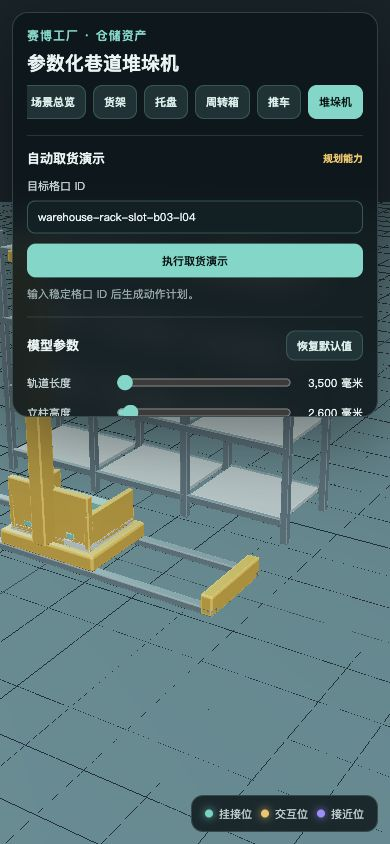
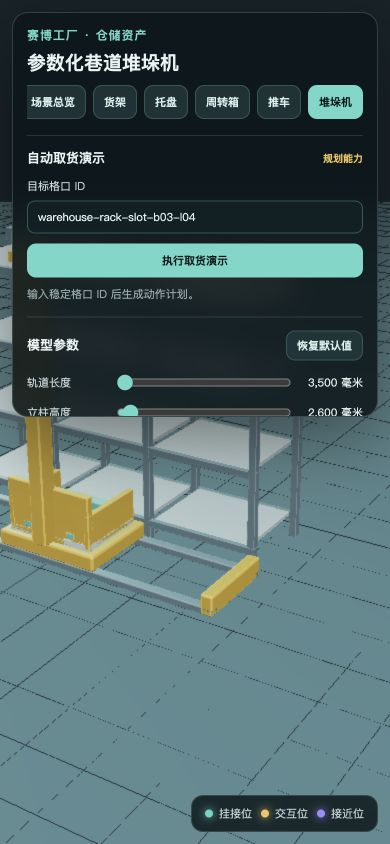
fix: combine stacker with rack assembly

diff --git a/domain-packages/cyber-factory/models/warehouse/model.ts b/domain-packages/cyber-factory/models/warehouse/model.ts
@@ -104,7 +104,7 @@ export const defaultWarehouseStackerCraneParameters: WarehouseStackerCraneParame
   mastHeight: defaultWarehouseRackParameters.height,
   carriageWidth: 900,
   carriageDepth: 700,
-  forkReach: 1_200,
+  forkReach: 700,
 };
 
 export const defaultWarehouseStackerCranePose: WarehouseStackerCranePose = {
@@ -138,6 +138,7 @@ const rubberAppearance: FeatureAppearance = { material: "rubber", color: "#20282
 const stackerFrameAppearance: FeatureAppearance = { material: "metal", color: "#E3A62F" };
 const stackerCarriageAppearance: FeatureAppearance = { material: "metal", color: "#D6E0E2" };
 const stackerForkAppearance: FeatureAppearance = { material: "metal", color: "#5BC6B5" };
+const warehouseStackerTravelBaseDepthScale = 1.18;
 
 function clamp(value: number, minimum: number, maximum: number) {
   return Math.min(maximum, Math.max(minimum, value));
@@ -478,8 +479,17 @@ export function normalizeWarehouseStackerCraneParameters(
     mastHeight: clamp(input.mastHeight ?? defaultWarehouseStackerCraneParameters.mastHeight, 2_400, 8_000),
     carriageWidth: clamp(input.carriageWidth ?? defaultWarehouseStackerCraneParameters.carriageWidth, 700, 1_600),
     carriageDepth: clamp(input.carriageDepth ?? defaultWarehouseStackerCraneParameters.carriageDepth, 600, 1_400),
-    forkReach: clamp(input.forkReach ?? defaultWarehouseStackerCraneParameters.forkReach, 900, 2_400),
+    forkReach: clamp(input.forkReach ?? defaultWarehouseStackerCraneParameters.forkReach, 400, 2_400),
   };
+}
+
+export function warehouseStackerRackAssemblyZ(
+  rackInput: Partial<WarehouseRackParameters> = {},
+  craneInput: Partial<WarehouseStackerCraneParameters> = {},
+) {
+  const rack = normalizeWarehouseRackParameters(rackInput);
+  const crane = normalizeWarehouseStackerCraneParameters(craneInput);
+  return -(rack.depth / 2 + crane.carriageDepth * warehouseStackerTravelBaseDepthScale / 2);
 }
 
 export function normalizeWarehouseStackerCranePose(
@@ -506,11 +516,11 @@ export function createWarehouseStackerCrane(
   const railFeatures: ModelFeature[] = [
     box("warehouse-stacker-left-rail", "堆垛机左轨", [parameters.railLength, 72, 96], [0, 36, -railOffsetZ], metalAppearance, 12),
     box("warehouse-stacker-right-rail", "堆垛机右轨", [parameters.railLength, 72, 96], [0, 36, railOffsetZ], metalAppearance, 12),
-    box("warehouse-stacker-left-end-stop", "左端限位器", [120, 190, parameters.carriageDepth * 1.18], [-parameters.railLength / 2 + 60, 95, 0], stackerFrameAppearance, 18),
-    box("warehouse-stacker-right-end-stop", "右端限位器", [120, 190, parameters.carriageDepth * 1.18], [parameters.railLength / 2 - 60, 95, 0], stackerFrameAppearance, 18),
+    box("warehouse-stacker-left-end-stop", "左端限位器", [120, 190, parameters.carriageDepth * warehouseStackerTravelBaseDepthScale], [-parameters.railLength / 2 + 60, 95, 0], stackerFrameAppearance, 18),
+    box("warehouse-stacker-right-end-stop", "右端限位器", [120, 190, parameters.carriageDepth * warehouseStackerTravelBaseDepthScale], [parameters.railLength / 2 - 60, 95, 0], stackerFrameAppearance, 18),
   ];
   const travelFeatures: ModelFeature[] = [
-    box("warehouse-stacker-travel-base", "紧凑型行走底座", [parameters.carriageWidth + 160, 150, parameters.carriageDepth * 1.18], [pose.travelX, 140, 0], stackerFrameAppearance, 24),
+    box("warehouse-stacker-travel-base", "紧凑型行走底座", [parameters.carriageWidth + 160, 150, parameters.carriageDepth * warehouseStackerTravelBaseDepthScale], [pose.travelX, 140, 0], stackerFrameAppearance, 24),
     box("warehouse-stacker-single-mast", "堆垛机单立柱", [150, parameters.mastHeight, 180], [pose.travelX, mastBottom + parameters.mastHeight / 2, mastZ], stackerFrameAppearance, 14),
     box("warehouse-stacker-mast-guide", "单立柱升降导轨", [58, parameters.mastHeight - 220, 34], [pose.travelX, mastBottom + parameters.mastHeight / 2 - 40, mastZ + 107], metalAppearance, 10),
     box("warehouse-stacker-mast-cap", "单立柱顶帽", [280, 100, 210], [pose.travelX, mastBottom + parameters.mastHeight, mastZ], stackerFrameAppearance, 14),
@@ -587,7 +597,8 @@ export function planWarehouseRetrieval(
   if (slot.bayIndex >= rack.bayCount || slot.levelIndex >= rack.levelCount) {
     return { valid: false, slotId, code: "slot-out-of-range", message: "目标格口不在当前货架参数范围内。" };
   }
-  const requiredForkExtension = rack.depth / 2 + 600;
+  const rackAssemblyZ = warehouseStackerRackAssemblyZ(rack, crane);
+  const requiredForkExtension = Math.abs(rackAssemblyZ) - crane.carriageDepth / 2;
   if (requiredForkExtension > crane.forkReach) {
     return { valid: false, slotId, code: "insufficient-fork-reach", message: "货叉行程不足，无法到达目标货位。" };
   }

diff --git a/domain-packages/cyber-factory/models/warehouse/preview.ts b/domain-packages/cyber-factory/models/warehouse/preview.ts
@@ -13,6 +13,7 @@ import {
   planWarehouseRetrieval,
   warehouseRackBayX,
   warehouseRackShelfY,
+  warehouseStackerRackAssemblyZ,
   type WarehouseCartParameters,
   type WarehousePalletParameters,
   type WarehouseRackParameters,
@@ -129,14 +130,14 @@ const assetConfigs: Record<AssetKey, AssetPreviewConfig> = {
   },
   stacker: {
     title: "参数化巷道堆垛机",
-    summary: "轨道与立柱默认对齐三跨货架；跨度、高度、载货台和货叉仍可独立配置。",
+    summary: "独立模型默认与货架拣选面贴合组合；跨度、高度、载货台和货叉仍可独立配置。",
     defaults: valuesOf(defaultWarehouseStackerCraneParameters),
     parameters: [
       { key: "railLength", label: "轨道长度", minimum: 3_500, maximum: 30_000, step: 500, unit: "毫米" },
       { key: "mastHeight", label: "立柱高度", minimum: 2_400, maximum: 8_000, step: 100, unit: "毫米" },
       { key: "carriageWidth", label: "载货台宽度", minimum: 700, maximum: 1_600, step: 50, unit: "毫米" },
       { key: "carriageDepth", label: "载货台深度", minimum: 600, maximum: 1_400, step: 50, unit: "毫米" },
-      { key: "forkReach", label: "货叉行程", minimum: 900, maximum: 2_400, step: 50, unit: "毫米" },
+      { key: "forkReach", label: "货叉行程", minimum: 400, maximum: 2_400, step: 50, unit: "毫米" },
     ],
     createDefinition: (parameters) => createWarehouseStackerCraneDefinition(parameters as Partial<WarehouseStackerCraneParameters>),
     cameraPosition: [4_600, 4_300, -5_800],
@@ -340,6 +341,14 @@ function renderOverview() {
   const cart = createWarehouseCartDefinition(defaultWarehouseCartParameters);
   const stacker = createWarehouseStackerCraneDefinition(defaultWarehouseStackerCraneParameters);
   const rackPosition: Vector3Tuple = [-500, 0, -180];
+  const stackerPosition: Vector3Tuple = [
+    rackPosition[0],
+    0,
+    rackPosition[2] - warehouseStackerRackAssemblyZ(
+      defaultWarehouseRackParameters,
+      defaultWarehouseStackerCraneParameters,
+    ),
+  ];
   let drawUnits = buildAsset(rack, rackPosition);
   drawUnits += buildAsset(pallet, [
     rackPosition[0] + warehouseRackBayX(defaultWarehouseRackParameters, 0),
@@ -359,7 +368,7 @@ function renderOverview() {
   const cartPosition: Vector3Tuple = quality === "mobile" ? [1_450, 0, 260] : [2_300, 0, 420];
   drawUnits += buildAsset(cart, cartPosition);
   if (quality === "desktop") drawUnits += buildAsset(pallet, [2_150, 0, -1_050]);
-  drawUnits += buildAsset(stacker, [-450, 0, -1_750]);
+  drawUnits += buildAsset(stacker, stackerPosition, true);
   placeRepresentativeAnchors(cart, cartPosition);
   setCamera([7_000, 4_600, 8_000], [0, 1_300, 100], 4_200, 20_000);
   return drawUnits;
@@ -380,7 +389,6 @@ interface StackerAnimationState {
   lastRenderedAt: number;
 }
 
-const stackerRackPosition: Vector3Tuple = [0, 0, -1_500];
 let stackerPose: WarehouseStackerCranePose = { ...defaultWarehouseStackerCranePose };
 let stackerPlan: ValidWarehouseRetrievalPlan | null = null;
 let stackerAnimation: StackerAnimationState | null = null;
@@ -418,13 +426,18 @@ function renderStackerScene(
   const stacker = stackerDefinitionAtPose(pose);
   const pallet = createWarehousePalletDefinition(defaultWarehousePalletParameters);
   const plan = activeStackerPlan();
-  let drawUnits = buildAsset(rack, stackerRackPosition);
+  const rackPosition: Vector3Tuple = [
+    0,
+    0,
+    warehouseStackerRackAssemblyZ(rackParameters, stackerParameters),
+  ];
+  let drawUnits = buildAsset(rack, rackPosition);
   drawUnits += buildAsset(stacker, [0, 0, 0], true);
   if (plan) {
     const shelfY = warehouseRackShelfY(rackParameters, plan.levelIndex) + 22;
     let cargoPosition: Vector3Tuple;
     if (cargoMode === "rack") {
-      cargoPosition = [plan.targetPose.travelX, shelfY, stackerRackPosition[2]];
+      cargoPosition = [plan.targetPose.travelX, shelfY, rackPosition[2]];
     } else if (cargoMode === "fork") {
       cargoPosition = [pose.travelX, pose.liftY + 32, -stackerParameters.carriageDepth / 2 - pose.forkExtension];
     } else {
@@ -434,7 +447,7 @@ function renderStackerScene(
     marker("#54D5C4", [
       plan.targetPose.travelX,
       shelfY + 120,
-      stackerRackPosition[2] + rackParameters.depth / 2 + 180,
+      rackPosition[2] + rackParameters.depth / 2 + 180,
     ], 42);
   }
   if (resetCamera) {

diff --git a/domain-packages/cyber-factory/models/warehouse/warehouse.test.ts b/domain-packages/cyber-factory/models/warehouse/warehouse.test.ts
@@ -15,6 +15,7 @@ import {
   warehouseGroupIds,
   warehouseRackBayX,
   warehouseRackShelfY,
+  warehouseStackerRackAssemblyZ,
 } from "./index.js";
 
 describe("warehouse and internal logistics asset kit", () => {
@@ -135,7 +136,7 @@ describe("warehouse and internal logistics asset kit", () => {
       mastHeight: 2_600,
       carriageWidth: 900,
       carriageDepth: 700,
-      forkReach: 1_200,
+      forkReach: 700,
     });
     const graph = createWarehouseStackerCraneDefinition().createModel().featureGraph!;
     expect(graph.features.some(({ id }) => id === "warehouse-stacker-single-mast")).toBe(true);
@@ -148,12 +149,20 @@ describe("warehouse and internal logistics asset kit", () => {
     expect(outerTopPlan).toMatchObject({ valid: true });
     if (outerTopPlan.valid) {
       expect(outerTopPlan.targetPose.liftY).toBe(warehouseRackShelfY(defaultWarehouseRackParameters, 3) + 74);
+      expect(outerTopPlan.targetPose.forkExtension).toBeCloseTo(513);
     }
+    const rackZ = warehouseStackerRackAssemblyZ(
+      defaultWarehouseRackParameters,
+      defaultWarehouseStackerCraneParameters,
+    );
+    expect(rackZ + defaultWarehouseRackParameters.depth / 2).toBeCloseTo(
+      -defaultWarehouseStackerCraneParameters.carriageDepth * 1.18 / 2,
+    );
   });
 
   it("keeps retracted forks inside the carriage and extends only toward the rack", () => {
     const retracted = createWarehouseStackerCrane(defaultWarehouseStackerCraneParameters, { forkExtension: 0 });
-    const extended = createWarehouseStackerCrane(defaultWarehouseStackerCraneParameters, { forkExtension: 900 });
+    const extended = createWarehouseStackerCrane(defaultWarehouseStackerCraneParameters, { forkExtension: 600 });
     const retractedFork = retracted.featureGraph!.features.find(({ id }) => id === "warehouse-stacker-left-fork");
     const extendedFork = extended.featureGraph!.features.find(({ id }) => id === "warehouse-stacker-left-fork");
     expect(retractedFork?.type).toBe("box");
@@ -167,7 +176,7 @@ describe("warehouse and internal logistics asset kit", () => {
       -defaultWarehouseStackerCraneParameters.carriageDepth / 2,
     );
     expect(extendedFork.position[2] + extendedFork.parameters.depth / 2).toBe(
-      defaultWarehouseStackerCraneParameters.carriageDepth / 2 + 900,
+      defaultWarehouseStackerCraneParameters.carriageDepth / 2 + 600,
     );
   });
 
@@ -215,7 +224,7 @@ describe("warehouse and internal logistics asset kit", () => {
     expect(planWarehouseRetrieval(
       "warehouse-rack-slot-b01-l01",
       { depth: 1_200 },
-      { forkReach: 800 },
+      { forkReach: 400 },
     )).toMatchObject({ valid: false, code: "insufficient-fork-reach" });
   });
 

diff --git a/domain-packages/cyber-factory/models/warehouse/manifest.ts b/domain-packages/cyber-factory/models/warehouse/manifest.ts
@@ -374,7 +374,7 @@ export function createWarehouseStackerCraneManifest(
       { id: "mast-height", label: "立柱高度", type: "number", defaultValue: parameters.mastHeight, unit: "mm", minimum: 2_400, maximum: 8_000, step: 100 },
       { id: "carriage-width", label: "载货台宽度", type: "number", defaultValue: parameters.carriageWidth, unit: "mm", minimum: 700, maximum: 1_600, step: 50 },
       { id: "carriage-depth", label: "载货台深度", type: "number", defaultValue: parameters.carriageDepth, unit: "mm", minimum: 600, maximum: 1_400, step: 50 },
-      { id: "fork-reach", label: "货叉行程", type: "number", defaultValue: parameters.forkReach, unit: "mm", minimum: 900, maximum: 2_400, step: 50 },
+      { id: "fork-reach", label: "货叉行程", type: "number", defaultValue: parameters.forkReach, unit: "mm", minimum: 400, maximum: 2_400, step: 50 },
     ],
     materials: [
       { id: "stacker-rails", label: "堆垛机轨道", material: "metal", color: "#71858E", featureIds: railIds },

diff --git a/domain-packages/cyber-factory/models/warehouse/README.md b/domain-packages/cyber-factory/models/warehouse/README.md
@@ -1,6 +1,6 @@
 # 仓储与内部物流资产套件
 
-本目录独立交付 Epic #2 / Issue #52，只消费 #45 的 `ModelAssetDefinition` 契约，不修改公共 registry、schema、示例或共享入口。四项资产均保持 `planned`，等待统一注册与运行时接入。
+本目录独立交付 Epic #2 / Issue #52，只消费 #45 的 `ModelAssetDefinition` 契约，不修改公共 registry、schema、示例或共享入口。五项资产均保持 `planned`，等待统一注册与运行时接入。
 
 ## 独立资产
 
@@ -8,9 +8,9 @@
 - `cyber-factory-warehouse-pallet`：带顶部装载 socket 和前后货叉入口的木质托盘。
 - `cyber-factory-warehouse-tote`：带真实开放内腔、内容 socket 和双侧搬运锚点的塑料周转箱。
 - `cyber-factory-warehouse-cart`：带装载 socket、推行锚点、双层台面和四轮的物流推车。
-- `cyber-factory-warehouse-stacker-crane`：默认采用与三跨货架对齐的 3.5 米轨道和 2.6 米紧凑单立柱，也可参数化扩展轨道、高度、载货台和货叉；输入稳定格口 ID 后可生成确定性的九步取货计划。
+- `cyber-factory-warehouse-stacker-crane`：默认采用与三跨货架对齐的 3.5 米轨道、2.6 米紧凑单立柱和 0.7 米货叉行程，也可参数化扩展轨道、高度、载货台和货叉；输入稳定格口 ID 后可生成确定性的九步取货计划。
 
-所有模型使用毫米、`+y` 向上、`+z` 朝正面，底面基准为 `y = 0`。资产可独立引用，也可在预览中组合成仓储场景。预览提供“场景总览”和五项独立资产标签页；进入单项资产后，可使用参数控件实时重建模型并恢复默认值。货架使用立柱、横梁和每层货板的分体碰撞体，不用整块碰撞体封死货位；移动 LOD 省略斜撑、握边或次要承载层。
+所有模型使用毫米、`+y` 向上、`+z` 朝正面，底面基准为 `y = 0`。资产可独立引用，也可在预览中组合成仓储场景；组合预览会根据货架深度与载货台深度自动把拣选面贴到行走底座边缘。预览提供“场景总览”和五项独立资产标签页；进入单项资产后，可使用参数控件实时重建模型并恢复默认值。货架使用立柱、横梁和每层货板的分体碰撞体，不用整块碰撞体封死货位；移动 LOD 省略斜撑、握边或次要承载层。
 
 ## 堆垛机取货计划
 
